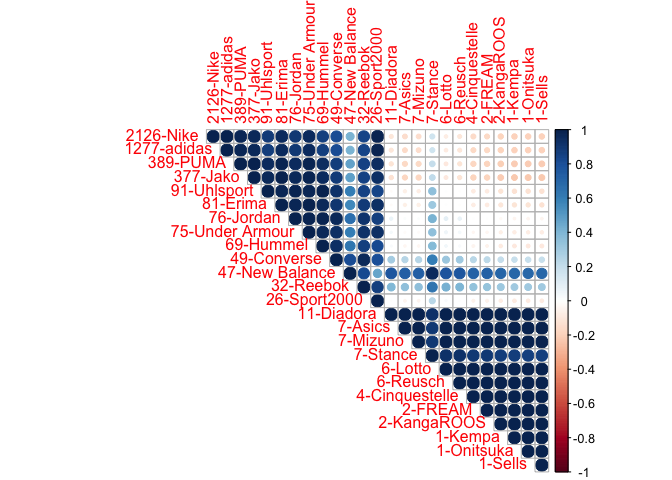
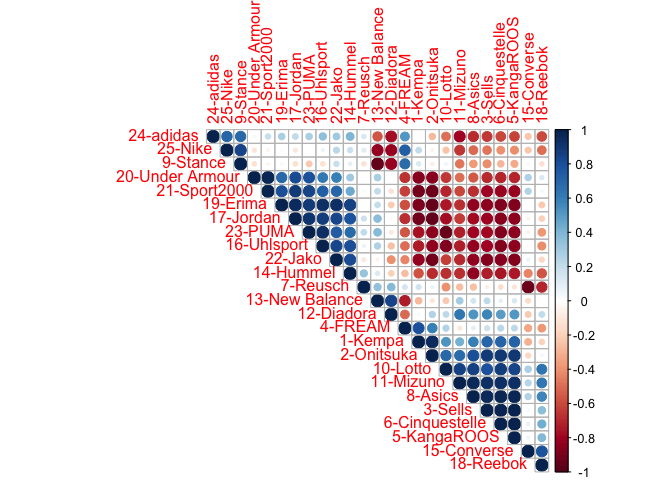
scale variables then correlation

Changed region(s): [[0.1562, 0.0, 0.8125, 1.0]]

diff --git a/users/XiaodanLyu/README.md b/users/XiaodanLyu/README.md
@@ -7,6 +7,8 @@ My findings
 library(sugrrants)
 library(tidyverse)
 library(lubridate)
+library(forcats)
+library(corrplot)
 setwd("~/Dropbox/dmc2018")
 train <- read.csv("data/raw_data/train.csv", sep = "|")
 prices <- read.csv("data/raw_data/prices.csv", sep = "|")
@@ -110,7 +112,7 @@ items %>% group_by(pid) %>%
     ## 4770
 
 ``` r
-## * before releasedate, any non-missing prices? Yes ####
+## * before releasedate, any non-missing prices? Yes 
 items %>% left_join(prices_long, by = c("pid", "size")) %>% 
   filter(date < releaseDate, !is.na(price)) -> prices_suspicious
 prices_suspicious %>% glimpse
@@ -132,14 +134,15 @@ prices_suspicious %>% glimpse
     ## $ price        <dbl> 41.21, 41.21, 41.21, 69.95, 27.97, 99.95, 99.95, ...
 
 ``` r
-## 688 different pid
-prices_suspicious %>% select(pid) %>% unique %>% dim
+## all products released after 2017-10-01 have price info before release date 
+anti_join(items %>% filter(releaseDate > ymd("2017-10-01")),
+          prices_suspicious, by = "pid") %>% dim
 ```
 
-    ## [1] 688   1
+    ## [1]  0 10
 
 ``` r
-## in each row, date is one-day earlier than releaseDate, suggesting wrong releaseDate?
+## in each row, date is one-day earlier than releaseDate
 prices_suspicious %>% mutate(diff_date = date-releaseDate) %>% select(diff_date) %>% table()
 ```
 
@@ -148,8 +151,7 @@ prices_suspicious %>% mutate(diff_date = date-releaseDate) %>% select(diff_date)
     ## 1932
 
 ``` r
-## * after releasedate, any missing prices? No ####
-## no missing price
+## * after releasedate, any missing prices? No 
 items %>% left_join(prices_long, by = c("pid", "size")) %>% 
   filter(date >= releaseDate) %>% select(price) %>% summary()
 ```
@@ -165,7 +167,7 @@ items %>% left_join(prices_long, by = c("pid", "size")) %>%
 #### calendar plots
 
 ``` r
-## remarkable more sales on Black Friday 2017-11-24
+## remarkably more sales on Black Friday 2017-11-24
 train.sales <- train %>% group_by(date) %>% summarise(n = sum(units)) %>% ungroup 
 train.sales %>%
   frame_calendar(x = 1, y = 1, date = date) %>%
@@ -231,13 +233,15 @@ items %>% group_by(brand) %>%
             ncat = length(unique(category)),
             nsubcat = length(unique(subCategory)),
             nnewrelease = length(unique(pid[releaseDate>ymd("2017-10-01")]))
-            ) %>% 
+  ) %>% 
   arrange(desc(npid)) -> brands
+brands <- brands %>% mutate(brand = fct_reorder(brand, nstock, mean)) %>%
+  mutate(order = as.numeric(brand)) %>% mutate(brand = paste(order, brand, sep = "-"))
 str(brands)
 ```
 
-    ## Classes 'tbl_df', 'tbl' and 'data.frame':    25 obs. of  9 variables:
-    ##  $ brand      : Factor w/ 25 levels "adidas","Asics",..: 16 1 18 9 24 6 10 25 8 4 ...
+    ## Classes 'tbl_df', 'tbl' and 'data.frame':    25 obs. of  10 variables:
+    ##  $ brand      : chr  "25-Nike" "24-adidas" "23-PUMA" "22-Jako" ...
     ##  $ npid       : int  2126 1277 389 377 91 81 76 75 69 49 ...
     ##  $ nitem      : int  6389 3969 772 673 126 107 136 135 95 123 ...
     ##  $ nstock     : int  25024 15272 1735 1396 188 242 199 275 136 160 ...
@@ -246,50 +250,50 @@ str(brands)
     ##  $ ncat       : int  10 10 9 4 5 4 4 6 2 4 ...
     ##  $ nsubcat    : int  29 31 21 16 16 14 10 5 13 6 ...
     ##  $ nnewrelease: int  256 349 39 2 0 1 14 0 2 2 ...
+    ##  $ order      : num  25 24 23 22 16 19 17 20 14 15 ...
 
 ``` r
-brandst <- data.frame(t(brands[,-1]))
-colnames(brandst) <- unlist(paste(brands$npid, brands$brand, sep = "-"))
+## standardize variables before computing correlation
+brandst <- data.frame(t(scale(brands[,-1])))
+colnames(brandst) <- unlist(brands$brand)
 str(brandst)
 ```
 
-    ## 'data.frame':    8 obs. of  25 variables:
-    ##  $ 2126-Nike      : num  2126 6389 25024 69.8 3 ...
-    ##  $ 1277-adidas    : num  1277 3969 15272 57.1 3 ...
-    ##  $ 389-PUMA       : num  389 772 1735 44.4 3 ...
-    ##  $ 377-Jako       : num  377 673 1396 31.7 2 ...
-    ##  $ 91-Uhlsport    : num  91 126 188 35.5 2 ...
-    ##  $ 81-Erima       : num  81 107 242 35.5 2 ...
-    ##  $ 76-Jordan      : num  76 136 199 53.9 2 ...
-    ##  $ 75-Under Armour: num  75 135 275 50.7 2 ...
-    ##  $ 69-Hummel      : num  69 95 136 31.7 2 ...
-    ##  $ 49-Converse    : num  49 123 160 82.5 1 ...
-    ##  $ 47-New Balance : num  47 65 73 108 2 ...
-    ##  $ 32-Reebok      : num  32 104 204 114 1 ...
-    ##  $ 26-Sport2000   : num  26 58 326 35.5 2 ...
-    ##  $ 11-Diadora     : num  11 13 14 127 2 ...
-    ##  $ 7-Asics        : num  7 8 8 146 1 ...
-    ##  $ 7-Mizuno       : num  7 12 12 229 1 ...
-    ##  $ 7-Stance       : num  7 8 8 20.2 1 ...
-    ##  $ 6-Lotto        : num  6 10 12 95.2 1 ...
-    ##  $ 6-Reusch       : num  6 7 7 57.1 2 ...
-    ##  $ 4-Cinquestelle : num  4 6 6 140 1 ...
-    ##  $ 2-FREAM        : num  2 2 2 38 1 ...
-    ##  $ 2-KangaROOS    : num  2 3 3 152 1 ...
-    ##  $ 1-Kempa        : num  1 1 1 76.1 1 ...
-    ##  $ 1-Onitsuka     : num  1 1 1 102 1 ...
-    ##  $ 1-Sells        : num  1 1 1 190 1 ...
+    ## 'data.frame':    9 obs. of  25 variables:
+    ##  $ 25-Nike        : num  4.016 4.025 4.065 -0.277 1.943 ...
+    ##  $ 24-adidas      : num  2.254 2.367 2.357 -0.509 1.943 ...
+    ##  $ 23-PUMA        : num  0.4114 0.1774 -0.0135 -0.7419 1.9429 ...
+    ##  $ 22-Jako        : num  0.3865 0.1096 -0.0729 -0.9744 0.5143 ...
+    ##  $ 16-Uhlsport    : num  -0.207 -0.265 -0.284 -0.905 0.514 ...
+    ##  $ 19-Erima       : num  -0.228 -0.278 -0.275 -0.905 0.514 ...
+    ##  $ 17-Jordan      : num  -0.238 -0.258 -0.282 -0.567 0.514 ...
+    ##  $ 20-Under Armour: num  -0.24 -0.259 -0.269 -0.626 0.514 ...
+    ##  $ 14-Hummel      : num  -0.253 -0.286 -0.294 -0.974 0.514 ...
+    ##  $ 15-Converse    : num  -0.2943 -0.2671 -0.2893 -0.0442 -0.9143 ...
+    ##  $ 13-New Balance : num  -0.298 -0.307 -0.305 0.421 0.514 ...
+    ##  $ 18-Reebok      : num  -0.33 -0.28 -0.282 0.537 -0.914 ...
+    ##  $ 21-Sport2000   : num  -0.342 -0.312 -0.26 -0.905 0.514 ...
+    ##  $ 12-Diadora     : num  -0.373 -0.342 -0.315 0.77 0.514 ...
+    ##  $ 8-Asics        : num  -0.381 -0.346 -0.316 1.119 -0.914 ...
+    ##  $ 11-Mizuno      : num  -0.381 -0.343 -0.315 2.63 -0.914 ...
+    ##  $ 9-Stance       : num  -0.381 -0.346 -0.316 -1.184 -0.914 ...
+    ##  $ 10-Lotto       : num  -0.384 -0.345 -0.315 0.188 -0.914 ...
+    ##  $ 7-Reusch       : num  -0.384 -0.347 -0.316 -0.509 0.514 ...
+    ##  $ 6-Cinquestelle : num  -0.388 -0.347 -0.316 1.002 -0.914 ...
+    ##  $ 4-FREAM        : num  -0.392 -0.35 -0.317 -0.858 -0.914 ...
+    ##  $ 5-KangaROOS    : num  -0.392 -0.349 -0.317 1.235 -0.914 ...
+    ##  $ 1-Kempa        : num  -0.394 -0.351 -0.317 -0.16 -0.914 ...
+    ##  $ 2-Onitsuka     : num  -0.394 -0.351 -0.317 0.305 -0.914 ...
+    ##  $ 3-Sells        : num  -0.394 -0.351 -0.317 1.933 -0.914 ...
 
 ``` r
 brands.cor <- cor(brandst)
-library(corrplot)
-corrplot(brands.cor, type = "upper")
+corrplot(brands.cor, type = "upper", order = "hclust")
 ```
 
 ![](figures/brands-1.png)
 
 ``` r
-library(forcats)
 ## rename brand by adding rank of # of stock
 items %>% mutate(brand = fct_reorder(brand, stock, sum)) %>%
   mutate(rank = as.numeric(brand)) %>%
